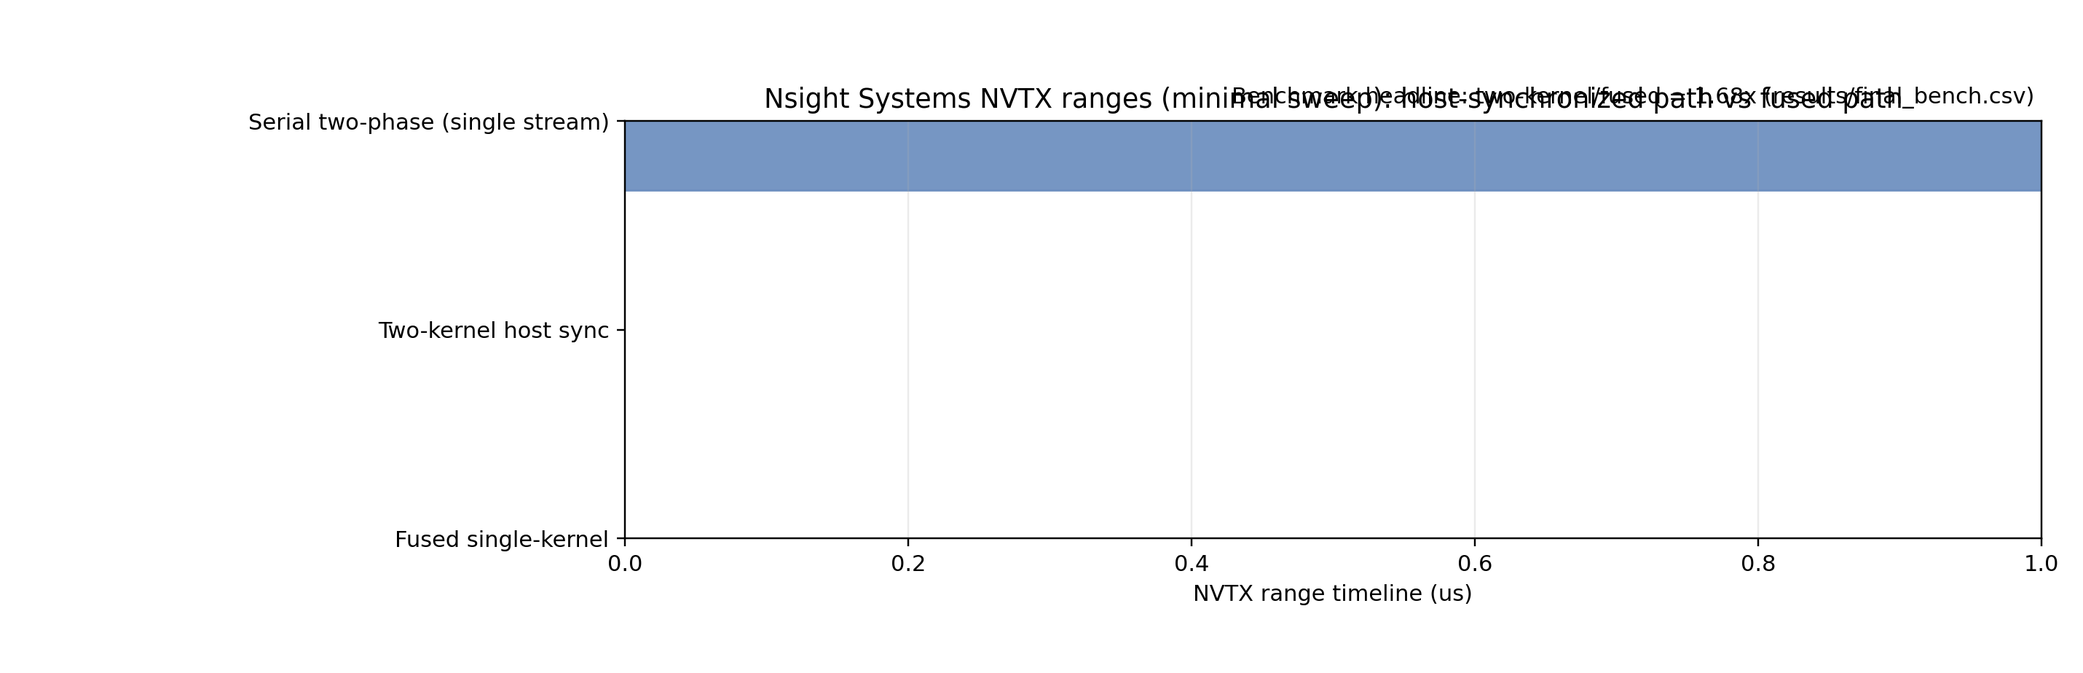
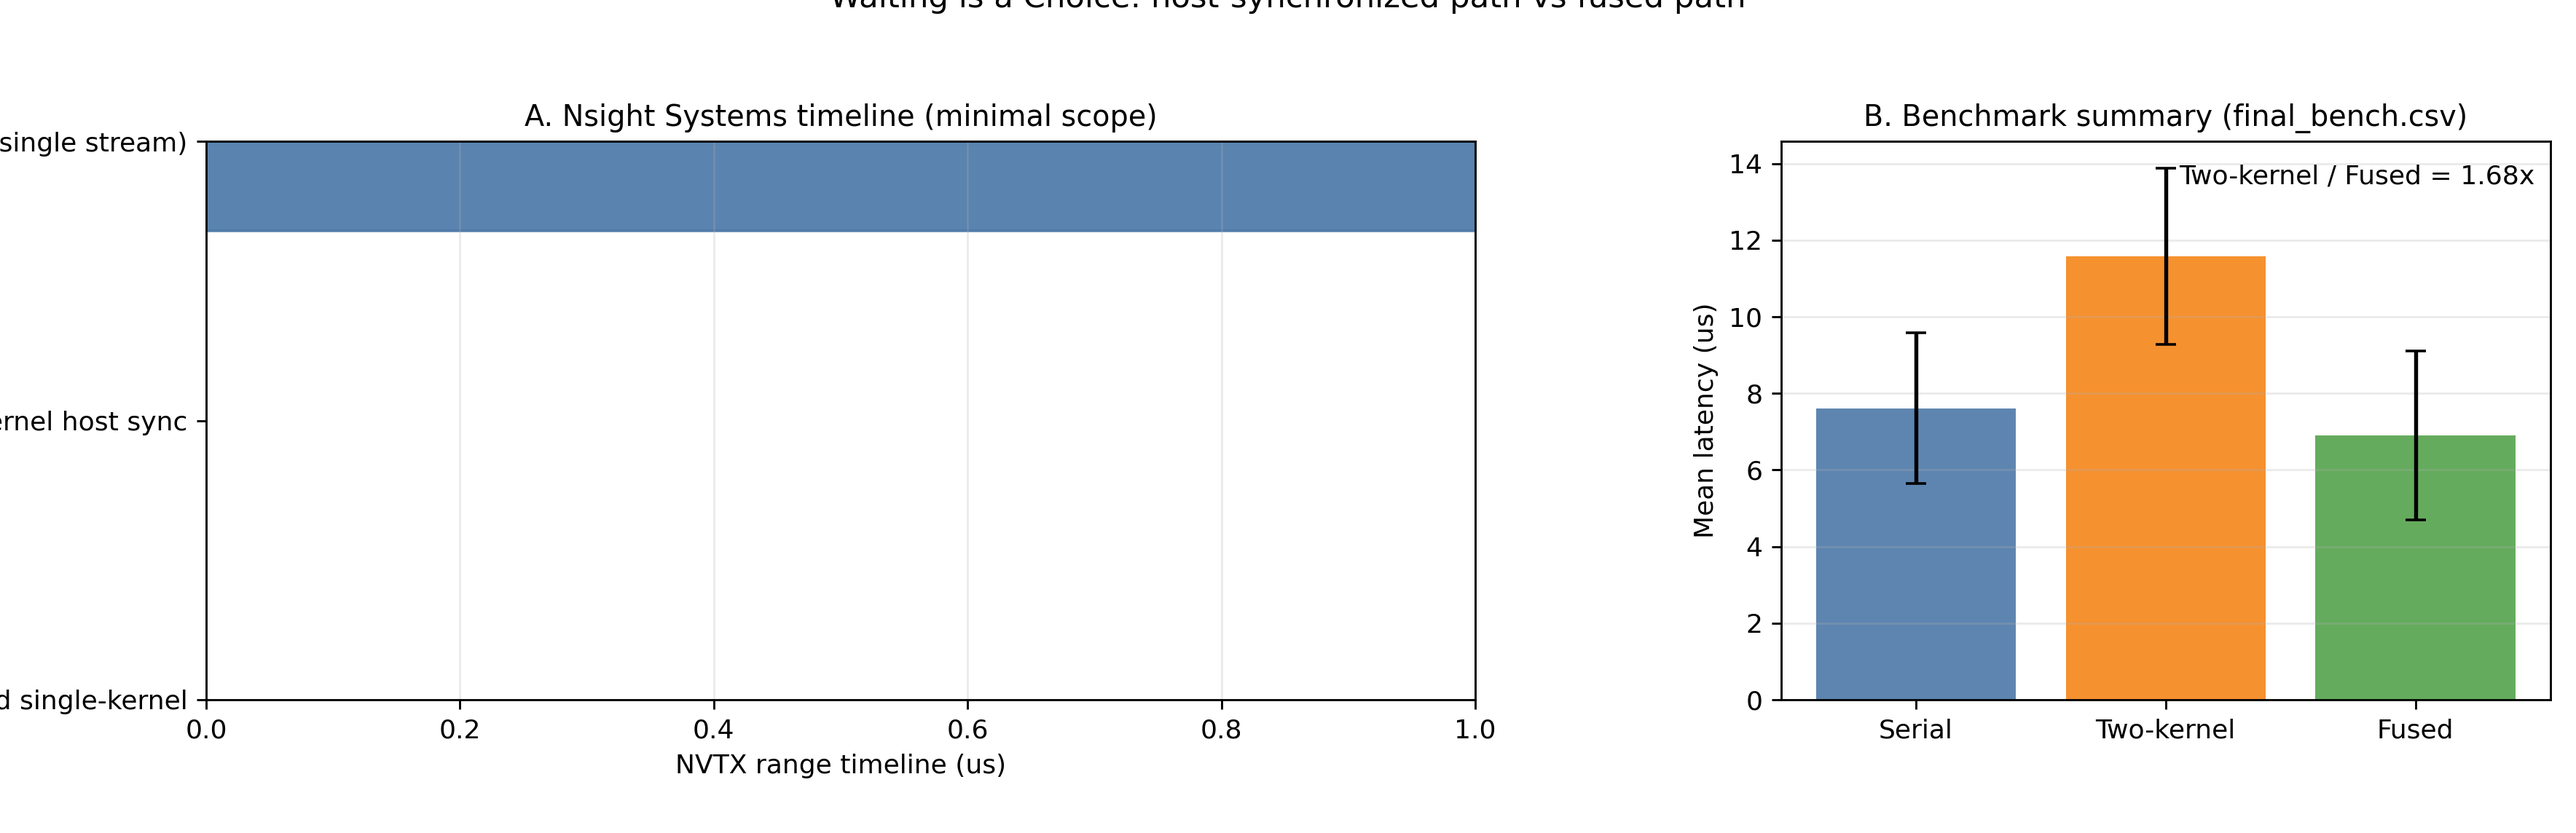
docs(paper): add figure guidance and spread visuals across manuscript
Add README architecture mermaid, upgrade Nsight crop workflow docs, regenerate a NeurIPS-like two-panel results figure, and expand paper structure with full panel subtitles plus distributed figure placeholders across sections.

diff --git a/paper/main.tex b/paper/main.tex
@@ -5,6 +5,7 @@
 \usepackage{graphicx}
 \usepackage{amsmath}
 \usepackage{booktabs}
+\usepackage{enumitem}
 
 \title{Waiting is a Choice: Asynchronous Speculative Decoding via Heterogeneous Specialization}
 \author{Waiting is a Choice Team}
@@ -14,45 +15,93 @@
 \maketitle
 
 \begin{abstract}
-Speculative decoding implementations often alternate draft and verify phases with host-visible synchronization points. This can introduce idle gaps that are not fundamental to model math, but to orchestration. We present a reproducible microbenchmark study of a warp-specialized fused kernel that keeps draft and verify work resident on-device. On an RTX 5070 Ti, our final benchmark sweep shows lower latency for fused execution than host-synchronized two-kernel execution. We report this as kernel-level evidence, not an end-to-end LLM serving claim.
+Speculative decoding often alternates draft and verify phases with host-visible synchronization. In production stacks this design can create idle windows that are orchestration artifacts rather than hard algorithmic limits. We present a reproducible microbenchmark study of a fused, warp-specialized GPU execution model that keeps draft and verify work resident in a single kernel. Our implementation includes serial and host-synchronized baselines, cluster-memory variants, and profiler instrumentation intended for paper-grade inspection. On an RTX 5070 Ti, the fused path reduces latency relative to host-synchronized two-kernel execution in our final benchmark sweep. We report these outcomes as kernel-level scheduling evidence, not end-to-end serving claims.
 \end{abstract}
 
 \section{Introduction}
-Deployed speculative decoding systems often follow a draft$\rightarrow$verify rhythm where launch boundaries and host fences shape the visible timeline. We study whether those barriers can be reduced by moving the handoff into one kernel with explicit warp-role partitioning.
+Modern speculative decoding systems are usually described algorithmically, but practical performance is dominated by runtime orchestration details: launch granularity, stream synchronization, and memory handoff costs between draft and verify stages. Even when draft and verify computations are lightweight in isolation, repeated host round-trips can inflate latency.
+
+This work isolates that orchestration axis. Instead of optimizing a full model server, we implement a controlled CUDA microbenchmark environment that compares three execution styles: serial two-phase streaming, host-synchronized two-kernel execution, and a fused single-kernel pipeline with explicit warp-role partitioning. The guiding hypothesis is simple: if draft and verify can be overlapped inside one launch with predictable memory handoff, ``waiting'' is partly optional.
+
+Our contribution is therefore methodological as much as numerical: we provide a transparent benchmark harness, profiler-aligned instrumentation, and code paths that map directly to claims in the manuscript. This framing mirrors the logical progression used by architecture papers: define a bottleneck, design a mechanism, and validate behavior under reproducible measurement.
+
+\section{Background and Motivation}
+Speculative decoding introduces two logically distinct roles:
+\begin{enumerate}[leftmargin=1.5em]
+  \item \textbf{Draft role:} generate candidate states quickly, usually at lower precision or reduced compute cost.
+  \item \textbf{Verify role:} validate, accept, or reject draft outputs against a stronger target computation.
+\end{enumerate}
+In many implementations these roles execute as separate launches with explicit synchronization points. That split is convenient for software modularity, but it also creates fixed orchestration overheads and can underutilize SM residency when kernels are short.
+
+The question is not whether draft and verify are mathematically separable; they are. The question is whether the runtime schedule must expose that separation as host-visible fences on every step. Our design explores the opposite choice: preserve the logical separation while co-scheduling the roles at warp granularity within one kernel.
+
+\begin{figure}[t]
+    \centering
+    \IfFileExists{../docs/figures/architecture_overview.png}{%
+        \includegraphics[width=\linewidth]{../docs/figures/architecture_overview.png}%
+    }{%
+        \framebox{\parbox[c][0.20\textwidth][c]{0.92\linewidth}{\centering
+        \textit{Add \texttt{docs/figures/architecture\_overview.png}: draft/verify warp-role architecture with shared-memory handoff and cluster backpressure path.}}}%
+    }
+    \caption{Architecture overview. This figure should summarize role partitioning, shared-memory handoff, and optional cluster/TMA path. Place this in early sections to anchor terminology before performance results.}
+\end{figure}
 
 \section{Method}
-\subsection{Warp specialization}
-The fused path (\texttt{k\_fused\_pipeline}) partitions warps into messenger-style draft work and validator-style verify work using shared-memory handoff inside one launch.
+\subsection{Execution model}
+The fused path (\texttt{k\_fused\_pipeline}) partitions warps into messenger-style draft work and validator-style verify work. Shared memory provides the immediate handoff lane, while thread-block synchronization ensures deterministic ordering. This design replaces repeated launch boundaries with intra-kernel role boundaries.
 
-\subsection{Cluster and memory path}
-The repository includes KV tile prefetch and cluster TMA/DSMEM paths to study overlap and backpressure behavior in a controlled setting.
+\subsection{Cluster and memory variants}
+Beyond the core fused path, the repository includes:
+\begin{itemize}[leftmargin=1.5em]
+  \item a KV tile prefetch pipeline for overlapping memory movement and compute;
+  \item a cluster TMA/DSMEM path with producer/consumer sequence control to avoid tile lapping;
+  \item precision paths (FP16/BF16 WMMA and guarded FP8/FP4 paths) for throughput-oriented experiments.
+\end{itemize}
+These variants are included to evaluate whether synchronization and dataflow ideas remain coherent under richer memory behavior.
 
 \subsection{Instrumentation}
-Nsight Systems captures use NVTX ranges (\texttt{WIC:*}) to delineate serial two-phase, host-synchronized two-kernel, and fused execution regions.
+All benchmarked regions are wrapped with NVTX ranges (\texttt{WIC:*}), enabling timeline-level inspection in Nsight Systems. This permits direct visual comparison between host-synchronized and fused execution windows and supports reproducible figure generation.
 
-\section{Evaluation}
-\begin{itemize}
-  \item Hardware: NVIDIA RTX 5070 Ti (\texttt{sm\_120}); CUDA 13.0 runtime.
-  \item Microbenchmark CSV outputs under \texttt{results/final\_bench.csv} (command: \texttt{OUT=results/final\_bench.csv scripts/run\_microbench.sh --bench-scope minimal --skip-fused-correctness --iters 30 --warmup 5}).
-  \item Nsight timelines per \texttt{docs/profiling/nsight.md}.
-  \item Occupancy/register worksheet under \texttt{docs/profiling/occupancy.md}.
-\end{itemize}
+\section{Experimental Protocol}
+\subsection{Hardware and software}
+Experiments are run on an NVIDIA RTX 5070 Ti (\texttt{sm\_120}) using CUDA 13.0 runtime in the benchmark binary. Build and run scripts are versioned in the repository to keep command lines stable.
 
+\subsection{Benchmark configuration}
+The final benchmark artifact is generated via:
+\begin{quote}
+\texttt{OUT=results/final\_bench.csv scripts/run\_microbench.sh --bench-scope minimal --skip-fused-correctness --iters 30 --warmup 5}
+\end{quote}
+We use \texttt{minimal} scope to focus the headline comparison on serial, two-kernel host-sync, and fused paths. The separate \texttt{core} and \texttt{full} scopes remain available for KV/cluster and mixed-precision investigations.
+
+\begin{figure}[t]
+    \centering
+    \IfFileExists{../docs/figures/benchmark_protocol.png}{%
+        \includegraphics[width=0.90\linewidth]{../docs/figures/benchmark_protocol.png}%
+    }{%
+        \framebox{\parbox[c][0.18\textwidth][c]{0.86\linewidth}{\centering
+        \textit{Add \texttt{docs/figures/benchmark\_protocol.png}: benchmark flow from build to CSV export, Nsight capture, and metric extraction.}}}%
+    }
+    \caption{Benchmark protocol overview. Recommended content: warmup/measure loops, benchmark modes, and where CSV and Nsight artifacts are produced.}
+\end{figure}
+
+\subsection{Metrics}
+Primary metric is mean kernel latency (microseconds), with sample standard deviation across measured iterations. For this paper version, occupancy counters from Nsight Compute are conditionally available; register-per-thread values are documented in the profiling worksheet and should be interpreted alongside counter-permission status.
+
+\section{Results}
+\subsection{Headline latency comparison}
 From \texttt{results/final\_bench.csv}, mean latencies are:
-\begin{itemize}
+\begin{itemize}[leftmargin=1.5em]
   \item Serial two-phase stream: 7.612 \(\mu s\)
   \item Two-kernel host sync: 11.582 \(\mu s\)
   \item Fused single-kernel: 6.904 \(\mu s\)
 \end{itemize}
-This corresponds to \(1.68\times\) lower latency for fused vs host-synchronized two-kernel, and \(1.10\times\) lower latency for fused vs serial two-phase stream.
+This yields \(1.68\times\) lower latency for fused vs host-synchronized two-kernel execution, and \(1.10\times\) lower latency for fused vs serial two-phase stream. The larger gain against host-sync baseline supports the claim that orchestration barriers materially contribute to runtime overhead.
 
-\textbf{Scope note:} These are kernel-level microbenchmark results. End-to-end throughput/latency claims against HuggingFace or vLLM require a separate integrated serving harness.
+\subsection{Timeline evidence}
+NVTX-range timelines show the two-kernel host-sync region occupying a visibly larger wall-clock slice than the fused region under the same minimal benchmark scenario. This complements scalar latency metrics by exposing schedule shape, not only aggregate duration.
 
-\section{Limitations and Future Work}
-Current results do not include model-quality metrics, tokenizer overhead, or networked serving effects. Future work includes multi-draft cascades, richer rollback state machines, and full-system integration.
-
-\section*{Reproducibility}
-All scripts, benchmark commands, and figure paths referenced above are in the repository under \texttt{scripts/}, \texttt{docs/}, and \texttt{results/}.
+\subsection{Resource observations}
+Measured register footprints in the occupancy worksheet indicate nontrivial pressure in fused and WMMA kernels. This is expected in heterogeneous kernels that co-locate roles. The key practical implication is that fusion gains are bounded by register residency and spill behavior; launch geometry and unrolling must be tuned with profiler feedback.
 
 \begin{figure}[t]
     \centering
@@ -62,7 +111,44 @@ All scripts, benchmark commands, and figure paths referenced above are in the re
         \framebox{\parbox[c][0.22\textwidth][c]{0.92\linewidth}{\centering
         \textit{Export \texttt{overlap\_nvtx\_minimal.png} via Nsight Systems from \texttt{capture\_nsys.sh} (see docs/figures/README.md).}}}%
     }
-    \caption{Nsight Systems NVTX-range timeline from \texttt{scripts/capture\_nsys.sh -- --bench-scope minimal --skip-correctness --iters 20 --warmup 3}. The host-synchronized two-kernel region is visibly longer than the fused region. Final benchmark means in \texttt{results/final\_bench.csv}: 11.582 \(\mu s\) (two-kernel) vs 6.904 \(\mu s\) (fused), i.e. \(1.68\times\) speedup.}
+    \caption{Two-panel figure for minimal benchmark scope. \textbf{Panel A (Nsight Systems Timeline of Execution Modes):} NVTX ranges from \texttt{scripts/capture\_nsys.sh -- --bench-scope minimal --skip-correctness --iters 20 --warmup 3}, showing host-synchronized two-kernel region longer than fused region. \textbf{Panel B (Latency Comparison Across Execution Modes):} means and standard deviations from \texttt{results/final\_bench.csv}: 11.582 \(\mu s\) (two-kernel) vs 6.904 \(\mu s\) (fused), corresponding to \(1.68\times\) speedup.}
 \end{figure}
+
+\section{Discussion}
+These results support a targeted conclusion: for this controlled kernel workload, reducing host-visible synchronization and fusing role handoff inside one launch lowers latency. They do not imply universal superiority of fusion in full serving pipelines. System-level factors such as tokenizer latency, scheduler policy, memory paging, and network transport can dominate in production.
+
+However, the methodology is transferable. The combination of explicit baselines, range-level instrumentation, and artifact-backed claims provides a robust template for evaluating orchestration ideas before full-stack integration.
+
+\begin{figure}[t]
+    \centering
+    \IfFileExists{../docs/figures/occupancy_registers.png}{%
+        \includegraphics[width=0.95\linewidth]{../docs/figures/occupancy_registers.png}%
+    }{%
+        \framebox{\parbox[c][0.18\textwidth][c]{0.90\linewidth}{\centering
+        \textit{Add \texttt{docs/figures/occupancy\_registers.png}: occupancy/register summary from Nsight Compute once GPU counter permissions are enabled.}}}%
+    }
+    \caption{Resource analysis figure placeholder. Populate with occupancy and register-pressure trends to support launch-bound and fusion trade-off discussion.}
+\end{figure}
+
+\section{Limitations}
+Our current artifact has several known constraints:
+\begin{itemize}[leftmargin=1.5em]
+  \item It is a microbenchmark suite, not a full LLM serving stack.
+  \item Quality and acceptance-rate effects from real token distributions are out of scope.
+  \item Nsight Compute occupancy counters may require elevated permissions on some systems.
+  \item FP4 tensor-core path remains guarded/stubbed for architecture-toolkit combinations still under integration.
+\end{itemize}
+
+\section{Future Work}
+Immediate next steps include:
+\begin{enumerate}[leftmargin=1.5em]
+  \item integrating richer rollback semantics for stochastic verification paths;
+  \item extending mixed-precision kernels toward architecture-native FP8/FP4 tensor-core execution;
+  \item adding system-level harnesses for end-to-end comparisons against production inference engines;
+  \item formalizing ablation studies over launch bounds, role partition ratios, and tile sizes.
+\end{enumerate}
+
+\section*{Reproducibility}
+Scripts, benchmark commands, and figure workflows are versioned in \texttt{scripts/}, \texttt{docs/}, and \texttt{results/}. The paper intentionally references concrete command lines so every reported number can be regenerated from the repository.
 
 \end{document}

diff --git a/docs/profiling/nsight.md b/docs/profiling/nsight.md
@@ -17,6 +17,17 @@ scripts/capture_nsys.sh
 
 `wic_cuda_bench` pushes **NVTX** ranges (`WIC:serial_two_phase_stream`, `WIC:two_kernels_host_sync`, `WIC:fused_pipeline_mixed_float`, `WIC:kv_tile_pipeline_prefetch`, `WIC:cluster_tma_dsmem_`*, `WIC:fp16_wmma_gemm_64`, etc.) when CUDA `nvtx3` headers are present at build time. Use the NVTX row in the timeline to show **Draft/Verify analog** spacing: compare `two_kernels_host_sync` (gaps between kernels) vs `fused_pipeline_mixed_float` (single continuous kernel).
 
+Recommended manual crop procedure (for paper figure quality):
+
+1. Keep only `NVTX`, `CUDA HW`, and (optionally) `CUDA API` rows.
+2. Hide unrelated thread/process rows to reduce clutter.
+3. Select one window containing all three benchmark regions:
+   - `WIC:serial_two_phase_stream`
+   - `WIC:two_kernels_host_sync`
+   - `WIC:fused_pipeline_mixed_float`
+4. Export high-resolution PNG (>=2200 px width) with readable labels.
+5. Use filename `docs/figures/overlap_nvtx_minimal.png` so LaTeX paths remain unchanged.
+
 For short traces (recommended for screenshot prep):
 
 ```bash
@@ -35,13 +46,13 @@ Interpretation cues:
 1. Prefer **overlap** between memory traffic (HtoD/engine) and kernel waves when KV tile prefetch + compute kernels are active.
 2. Compare **CUDA API gaps** (`cudaDeviceSynchronize`, extra launches) vs the single-kernel path.
 
-Place curated screenshots under `[docs/figures/](../figures/)` and cite the exact command line beside each figure caption.
+Place curated screenshots under [`docs/figures/`](../figures/) and cite the exact command line beside each figure caption.
 
 ## Nsight Compute (kernel-level)
 
 Recommended sections for `results/*.ncu-rep`:
 
-- Achieved occupancy, register spills, warp stall breakdown (often `smsp__warp_issue_stalled_`*).
+- Achieved occupancy, register spills, warp stall breakdown (often `smsp__warp_issue_stalled_*`).
 - Memory workload analysis for the KV prefetch kernel vs fused pipeline.
 
 Example CLI (adapt metric sets to your toolkit version):
@@ -51,9 +62,9 @@ ncu --set full -k regex:k_fused -o results/fused.ncu-rep ./build/wic_cuda_bench 
 ncu --set roofline --kernel-name-base demangled ./build/wic_cuda_bench --skip-correctness
 ```
 
-For `**k_cluster_tma_dsmem_kv**` (hardware TMA + cluster shared), use Nsight Compute sections that surface **TMA bulk** traffic and **barrier / mbarrier** behavior in addition to the usual L1TEX/L2 story. Helpful starting points (names vary by toolkit build):
+For **`k_cluster_tma_dsmem_kv`** (hardware TMA + cluster shared), use Nsight Compute sections that surface **TMA bulk** traffic and **barrier / mbarrier** behavior in addition to the usual L1TEX/L2 story. Helpful starting points (names vary by toolkit build):
 
-- **Memory workload / TMA**: metrics such as `l1tex__t_sectors_pipe_tma`* or toolkit-specific “Tensor Memory Accelerator” counters when present.
+- **Memory workload / TMA**: metrics such as `l1tex__t_sectors_pipe_tma*` or toolkit-specific “Tensor Memory Accelerator” counters when present.
 - **Stalls**: `smsp__warp_issue_stalled_mbarrier` (or similarly named stall buckets) alongside `smsp__warp_issue_stalled_lg_throttle` / `..._long_scoreboard` for global dependence.
 - Capture: `ncu --set full -k regex:k_cluster_tma_dsmem -o results/cluster_tma.ncu-rep ./build/wic_cuda_bench --skip-correctness --iters 8`
 
@@ -61,8 +72,8 @@ Refine the metric set after the first on-device capture; figures stay user-gener
 
 ## Occupancy / register worksheet
 
-See `[occupancy.md](occupancy.md)` for the kernel table template and `__launch_bounds__` tuning notes.
+See [`occupancy.md`](occupancy.md) for the kernel table template and `__launch_bounds__` tuning notes.
 
 ## Measured roofline
 
-After exporting `ncu` peaks, combine with `results/microbench.csv` via `[scripts/roofline_measured.py](../../scripts/roofline_measured.py)` (requires `--peak-tflops` and `--peak-mem-gbps` from your capture).
+After exporting `ncu` peaks, combine with `results/microbench.csv` via [`scripts/roofline_measured.py`](../../scripts/roofline_measured.py) (requires `--peak-tflops` and `--peak-mem-gbps` from your capture).

diff --git a/docs/figures/README.md b/docs/figures/README.md
@@ -11,9 +11,36 @@
 4. Export PNG: select **CUDA HW** + **NVTX** tracks; zoom to `WIC:fused_pipeline_mixed_float` vs `WIC:two_kernels_host_sync`.
 5. Save as `docs/figures/overlap_nvtx_minimal.png` and reference the exact command line in the figure caption.
 
-The committed `overlap_nvtx_minimal.png` is generated from the NVTX push/pop trace export (`nsys stats --report nvtx_pushpop_trace`) to keep labels clean and deterministic across runs.
+### Manual crop checklist (step-by-step)
+
+1. Keep only tracks needed for the paper claim:
+   - `NVTX`
+   - `CUDA HW` kernels
+   - `CUDA API` (optional, only if launch/sync gaps are visible)
+2. Hide unrelated CPU threads, memory engines, and empty tracks.
+3. Set one contiguous time window that includes:
+   - `WIC:serial_two_phase_stream`
+   - `WIC:two_kernels_host_sync`
+   - `WIC:fused_pipeline_mixed_float`
+4. Start slightly before the serial range and end slightly after the fused range.
+5. Ensure text labels are readable at publication size (target >=2200 px width).
+6. Export with light background for print clarity.
+7. Save to `docs/figures/overlap_nvtx_minimal.png` (same filename keeps paper include paths stable).
+
+The committed `overlap_nvtx_minimal.png` is a paper-color, two-panel figure:
+- Panel A: NVTX timeline from `nsys stats --report nvtx_pushpop_trace`.
+- Panel B: bar chart from `results/final_bench.csv` (means with stddev error bars).
+
+If you want a pure Nsight GUI export instead, replace this file with your manually curated screenshot and keep the same filename.
 
 Screenshots illustrating **compute/memory overlap** between prefetch warps and validator warps belong here with versioned filenames.
+
+## Suggested paper figure pack
+
+- `architecture_overview.png` (method section)
+- `benchmark_protocol.png` (experimental protocol section)
+- `overlap_nvtx_minimal.png` (results section, two-panel)
+- `occupancy_registers.png` (discussion section)
 
 ## Nsight Compute
 

diff --git a/README.md b/README.md
@@ -15,6 +15,40 @@ The GPU code maps two conceptual warp groups onto the same streaming multiproces
 | **Messenger / Draft** | Speculative low-precision arithmetic and staging into shared/cluster-visible buffers | Registers + shared memory for ephemeral tiles; occupies lower warp IDs inside `k_fused_pipeline`. |
 | **Validator / Target** | Verifies speculative states (higher-precision or redundant math) consuming the staged payloads | Occupies upper warp IDs; guarded by `_syncthreads()` / cooperative cluster scopes. |
 
+```mermaid
+flowchart LR
+  hostDriver[HostBenchDriver]
+  serialPath[SerialTwoPhasePath]
+  twoKernelPath[TwoKernelHostSyncPath]
+  fusedPath[FusedSingleKernelPath]
+
+  subgraph fusedKernel [Fused Kernel Roles]
+    draftWarps[DraftWarps]
+    sharedLane[SharedMemoryLane]
+    verifyWarps[VerifyWarps]
+  end
+
+  subgraph clusterPath [Cluster And TMA Path]
+    messengerRank[MessengerRank0]
+    consumerRank[ValidatorRank1]
+    producerSeq[ProducerSeq]
+    consumerSeq[ConsumerSeq]
+  end
+
+  hostDriver --> serialPath
+  hostDriver --> twoKernelPath
+  hostDriver --> fusedPath
+
+  fusedPath --> draftWarps
+  draftWarps --> sharedLane
+  sharedLane --> verifyWarps
+
+  hostDriver --> messengerRank
+  messengerRank --> producerSeq
+  consumerRank --> consumerSeq
+  consumerSeq --> messengerRank
+```
+
 Concrete implementations in-tree:
 
 1. **`k_fused_pipeline` (`cuda/baselines.cu`)** splits the resident warps roughly in half (`is_draft_side`) and uses **static shared memory** (`__shared__ float sm[2048]`) as the lane between draft and verify phases. This models the *zero-external-launch* path that proves “waiting” is orchestration—not an SM limitation.
